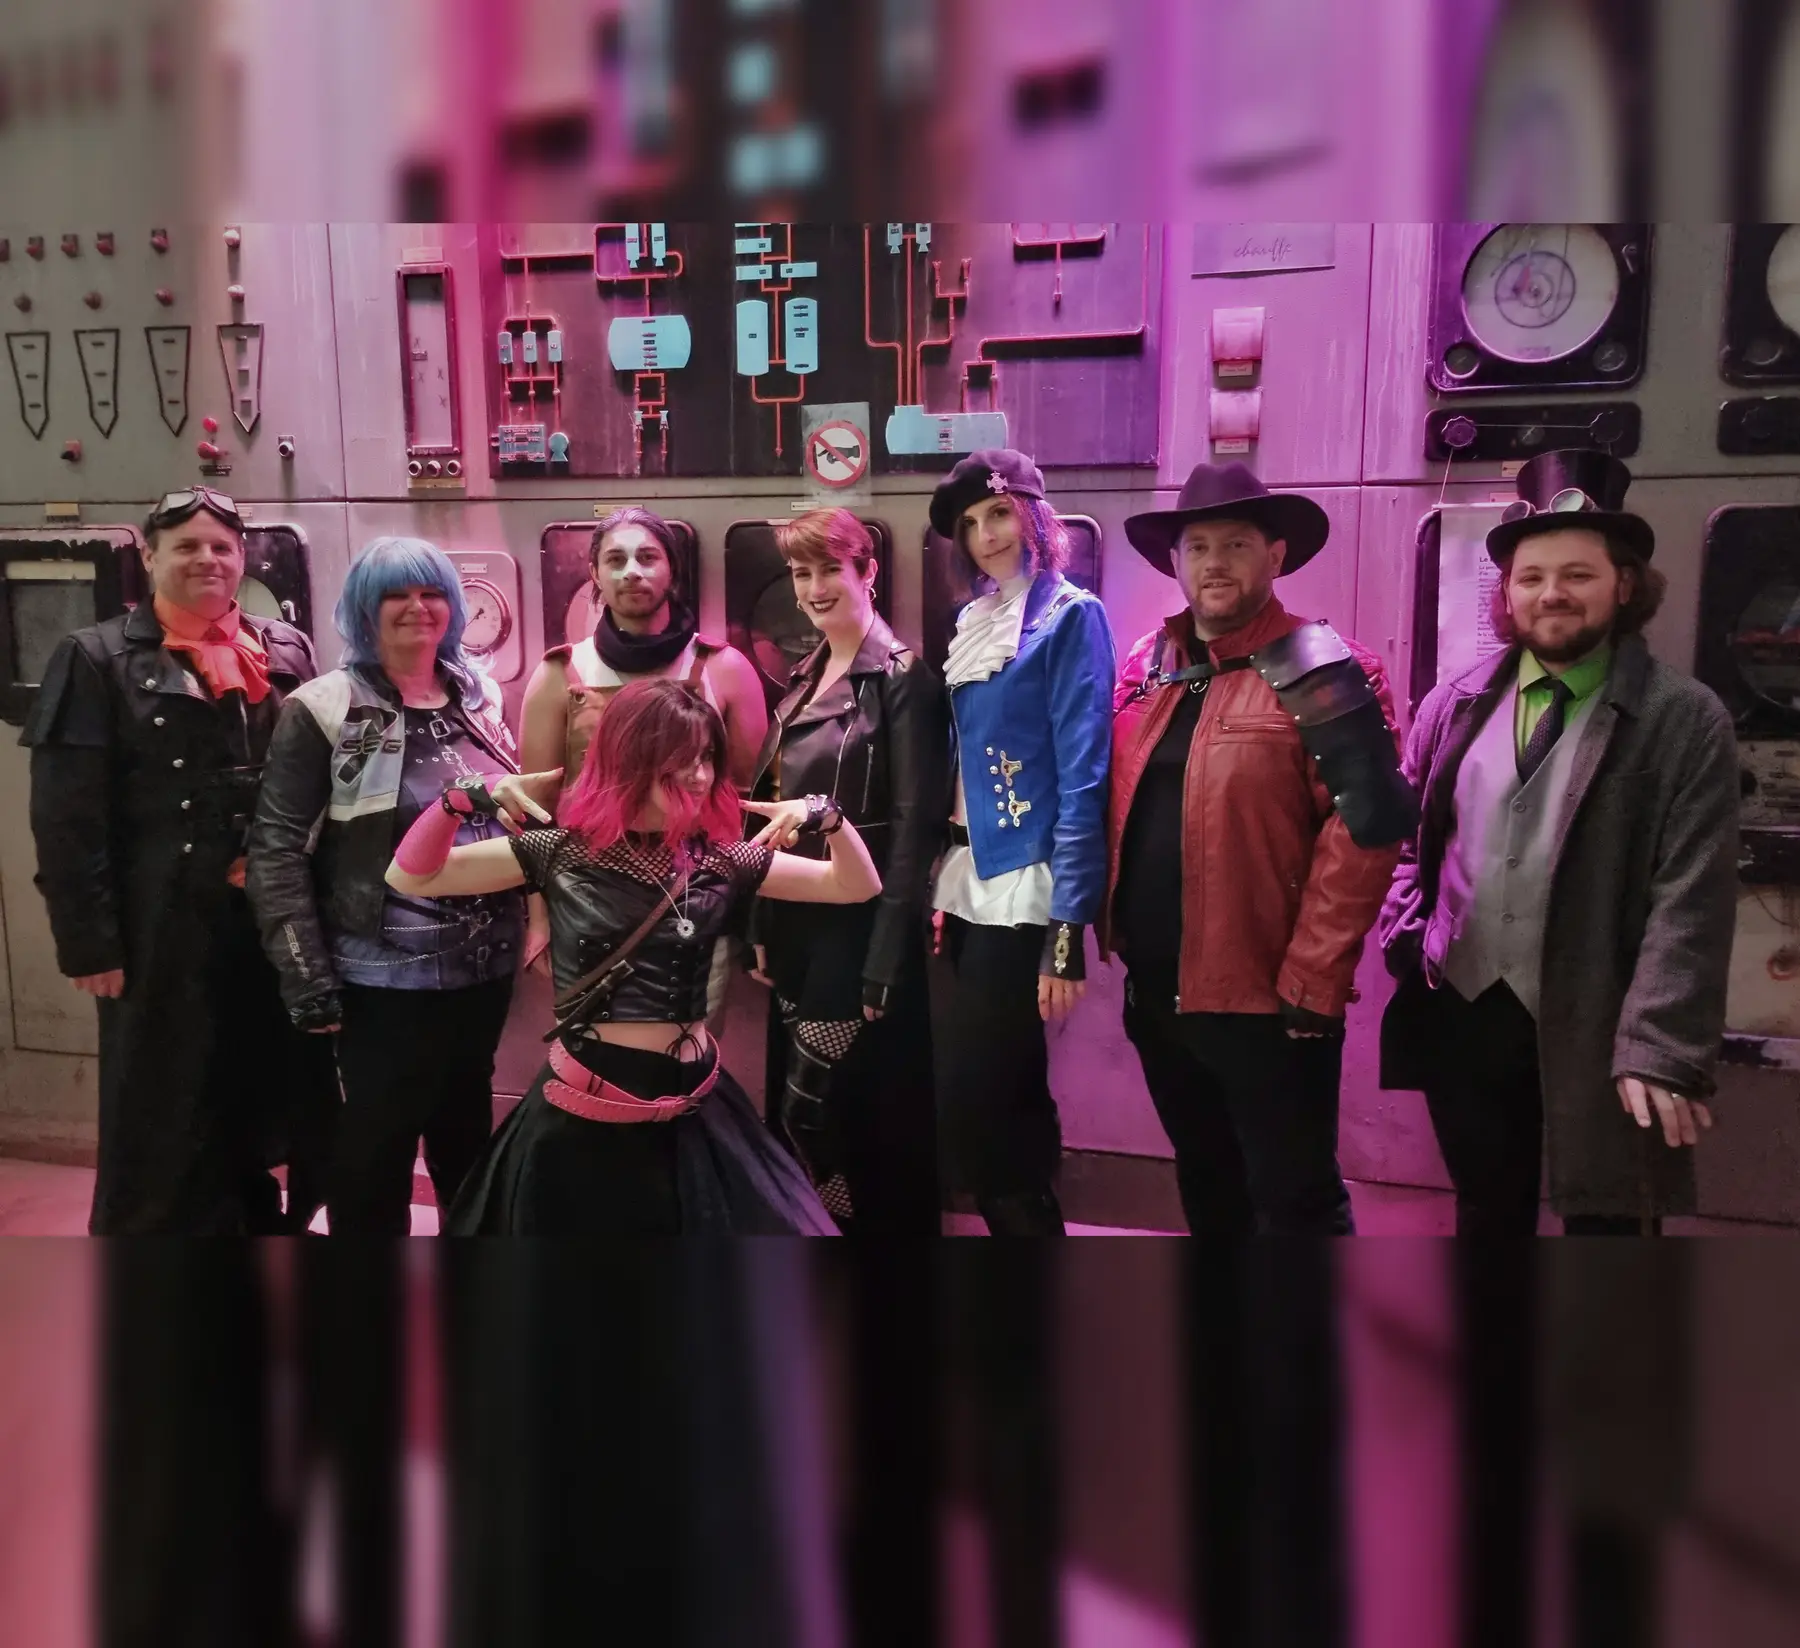
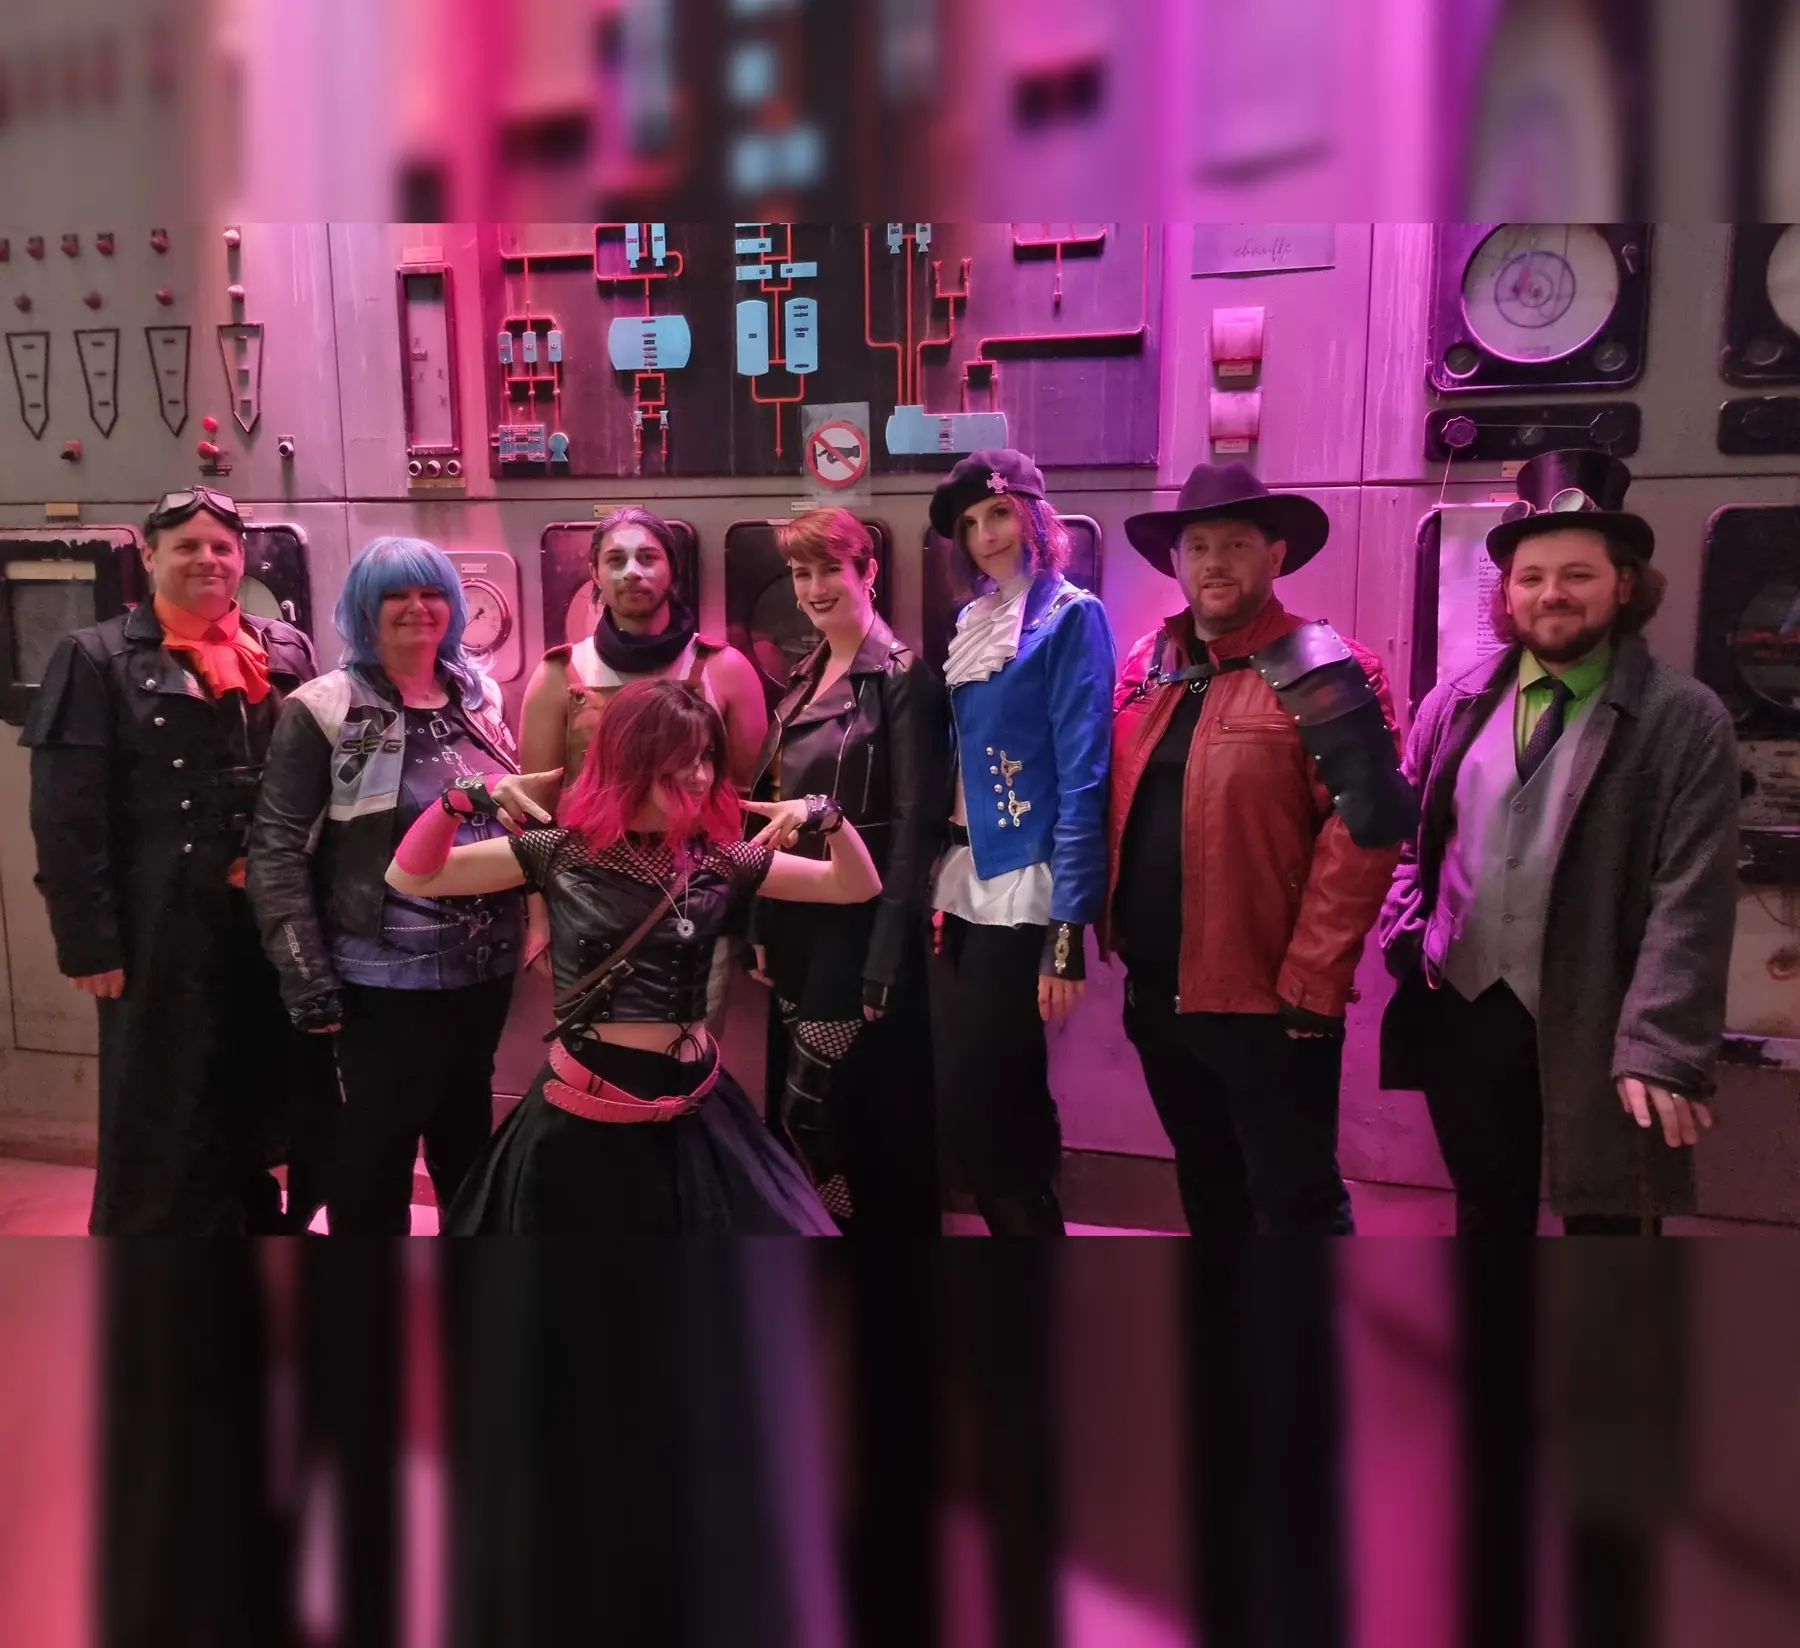
new: 3 upcoming concerts, and revert the hero to the untouched photo
Concerts : Point d'Eau a Ostwald le 26/09, caritatif au profit du refuge
des Pattounes d'Alsace ; festival Cool Choeurs a Strasbourg le 27/09, scene
du quai des Bateliers ; le Parnasse a Saint-Louis le 03/10. Visuels : les
deux logos, et le blason de Saint-Louis pour la mediatheque - meme
convention que Niederhergheim.

Hero : la photo repasse en version brute, sans etalonnage. Contraste local,
vignetage et neutralisation des carnations ont ete essayes puis ecartes a
l'usage. Seule la geometrie est conservee : extensions floutees en haut et
en bas pour atteindre le ratio voulu, et ligne des yeux a 34%.

diff --git a/index.html b/index.html
@@ -92,6 +92,7 @@
     <link rel="stylesheet" href="css/modal.css">
     <link rel="stylesheet" href="css/members.css">
 
+
 </head>
 
 <body class="acps-banner-hidden">
@@ -478,6 +479,41 @@
                             <p>Prochainement</p>
                             <p><span>Très bientôt de nouvelles dates annoncées<br>dans une ville proche de chez
                                     vous</span></p>
+                            <i class="fab fa-facebook fa-disabled"></i>
+                        </div>
+                    </div>
+                    <div class="col-xl-4 col-lg-6 col-md-6 col-sm-12 mb-4" data-concert-date="2026-10-03">
+                        <div class="thumbnail">
+                            <div class="to-come">
+                                <img width="400" height="300" loading="lazy" src="images/concerts/saint-louis.png" alt="Le Parnasse, Saint-Louis">
+                            </div>
+                            <p><strong>Le Parnasse, Saint-Louis</strong></p>
+                            <p>Samedi 3 octobre 2026 à 11h</p>
+                            <p><span>Les Pop'Cornala en concert<br>à la médiathèque du Parnasse</span></p>
+                            <i class="fab fa-facebook fa-disabled"></i>
+                        </div>
+                    </div>
+                    <div class="col-xl-4 col-lg-6 col-md-6 col-sm-12 mb-4" data-concert-date="2026-09-27">
+                        <div class="thumbnail">
+                            <div class="to-come">
+                                <img width="400" height="300" loading="lazy" src="images/concerts/cool-choeurs.png" alt="Festival Cool Chœurs">
+                            </div>
+                            <p><strong>Festival Cool Chœurs, Strasbourg <img class="flag"
+                                        src="images/flag-bas-rhin.svg" width="30" alt="Bas-Rhin"></strong></p>
+                            <p>Dimanche 27 septembre 2026 à 15h50</p>
+                            <p><span>Chorales pop dans les rues de Strasbourg<br>scène du quai des Bateliers</span></p>
+                            <i class="fab fa-facebook fa-disabled"></i>
+                        </div>
+                    </div>
+                    <div class="col-xl-4 col-lg-6 col-md-6 col-sm-12 mb-4" data-concert-date="2026-09-26">
+                        <div class="thumbnail">
+                            <div class="to-come">
+                                <img width="400" height="300" loading="lazy" src="images/concerts/pattounes.png" alt="Concert caritatif pour les Pattounes d'Alsace">
+                            </div>
+                            <p><strong>Le Point d'Eau, Ostwald <img class="flag"
+                                        src="images/flag-bas-rhin.svg" width="30" alt="Bas-Rhin"></strong></p>
+                            <p>Samedi 26 septembre 2026 à 20h</p>
+                            <p><span>Concert caritatif au profit<br>des Pattounes d'Alsace</span></p>
                             <i class="fab fa-facebook fa-disabled"></i>
                         </div>
                     </div>
@@ -1647,6 +1683,7 @@
             });
         });
     </script>
+
 
 </body>
 
